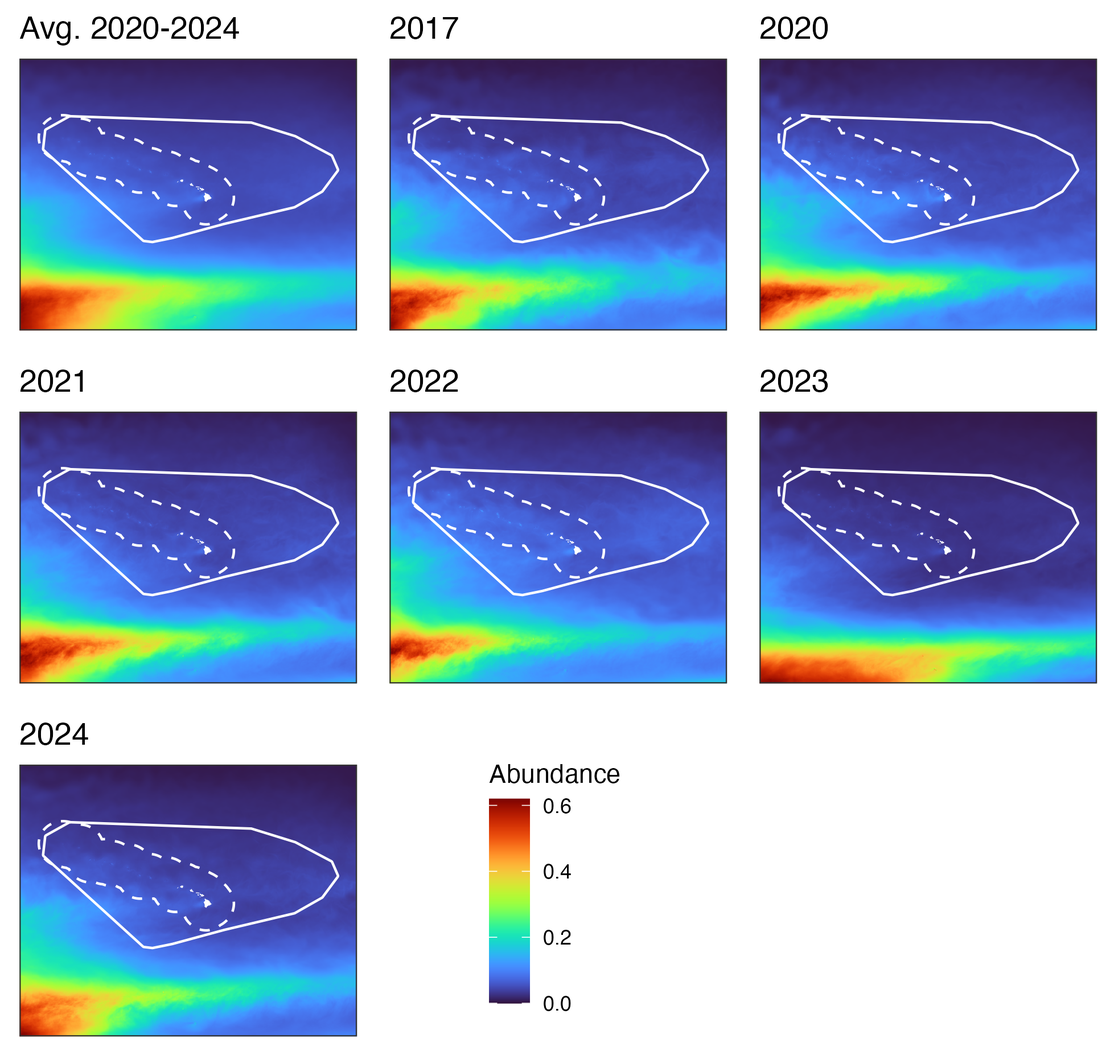
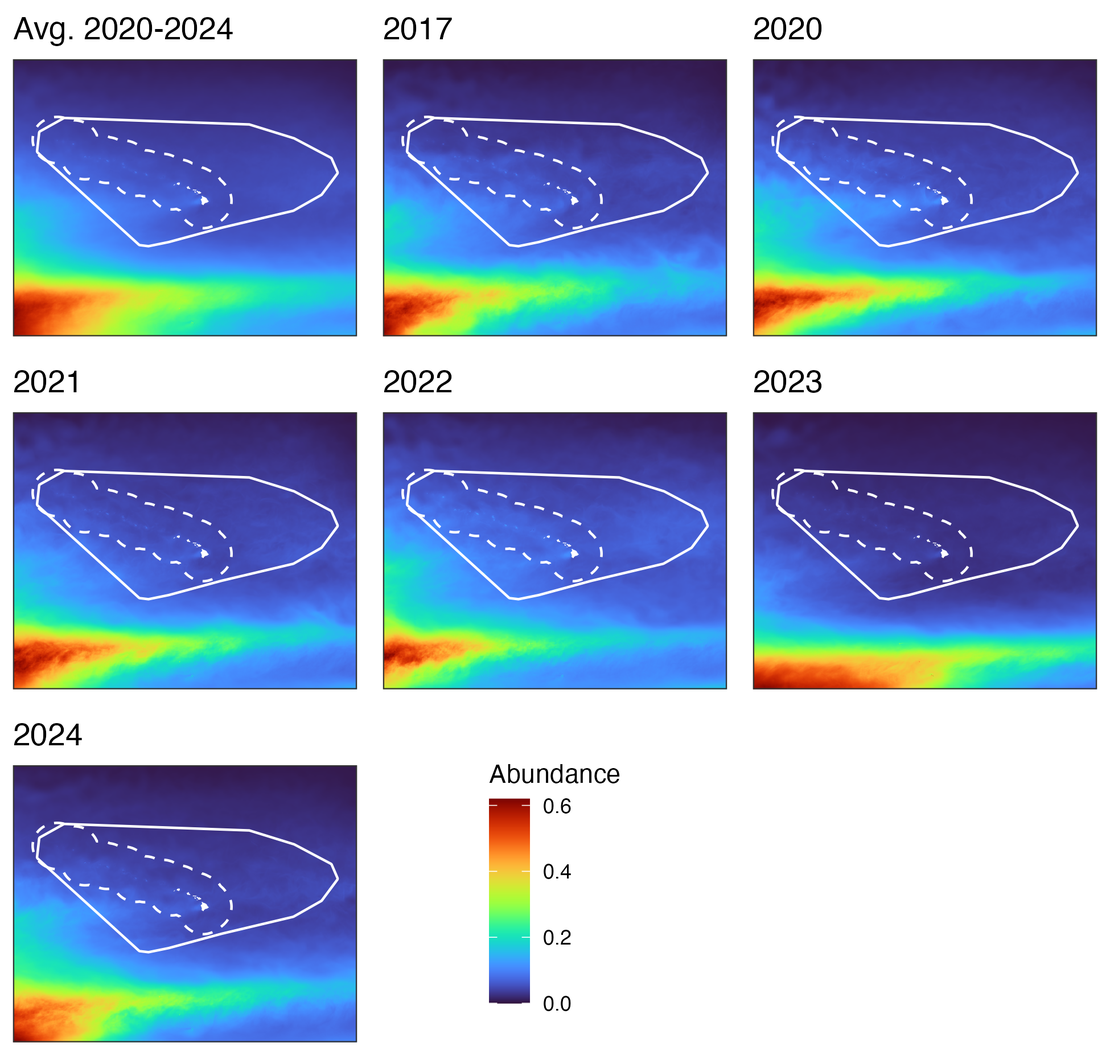
update vignette

diff --git a/docs/content/s4_fit_models/index.html b/docs/content/s4_fit_models/index.html
@@ -383,8 +383,8 @@ pre > code.sourceCode > span > a:first-child::before { text-decoration: underlin
 <span id="cb5-7"><a href="#cb5-7" aria-hidden="true" tabindex="-1"></a></span>
 <span id="cb5-8"><a href="#cb5-8" aria-hidden="true" tabindex="-1"></a>form_hab <span class="ot">&lt;-</span> <span class="fu">apply</span>(hab_inc, <span class="dv">1</span>, <span class="cf">function</span>(row) {</span>
 <span id="cb5-9"><a href="#cb5-9" aria-hidden="true" tabindex="-1"></a>  terms <span class="ot">&lt;-</span> <span class="fu">mapply</span>(<span class="cf">function</span>(choice, var) {</span>
-<span id="cb5-10"><a href="#cb5-10" aria-hidden="true" tabindex="-1"></a>    <span class="cf">if</span> (choice <span class="sc">==</span> <span class="dv">1</span>) <span class="fu">return</span>(<span class="fu">paste0</span>(<span class="st">"s("</span>,var,<span class="st">",bs=spline2use,k=5)"</span>))</span>
-<span id="cb5-11"><a href="#cb5-11" aria-hidden="true" tabindex="-1"></a>    <span class="cf">if</span> (choice <span class="sc">==</span> <span class="dv">2</span>) <span class="fu">return</span>(<span class="fu">paste0</span>(<span class="st">"te("</span>, var, <span class="st">",Latitude,bs=spline2use,k=5)"</span>))</span>
+<span id="cb5-10"><a href="#cb5-10" aria-hidden="true" tabindex="-1"></a>    <span class="cf">if</span> (choice <span class="sc">==</span> <span class="dv">1</span>) <span class="fu">return</span>(<span class="fu">paste0</span>(<span class="st">"s("</span>,var,<span class="st">",bs='ts')"</span>))</span>
+<span id="cb5-11"><a href="#cb5-11" aria-hidden="true" tabindex="-1"></a>    <span class="cf">if</span> (choice <span class="sc">==</span> <span class="dv">2</span>) <span class="fu">return</span>(<span class="fu">paste0</span>(<span class="st">"te("</span>, var, <span class="st">",Latitude,bs='ts')"</span>))</span>
 <span id="cb5-12"><a href="#cb5-12" aria-hidden="true" tabindex="-1"></a>    <span class="fu">return</span>(<span class="cn">NULL</span>)</span>
 <span id="cb5-13"><a href="#cb5-13" aria-hidden="true" tabindex="-1"></a>  }, row, hab_var)</span>
 <span id="cb5-14"><a href="#cb5-14" aria-hidden="true" tabindex="-1"></a>  terms <span class="ot">&lt;-</span> <span class="fu">unlist</span>(terms)</span>
@@ -394,7 +394,7 @@ pre > code.sourceCode > span > a:first-child::before { text-decoration: underlin
 <span id="cb5-18"><a href="#cb5-18" aria-hidden="true" tabindex="-1"></a></span>
 <span id="cb5-19"><a href="#cb5-19" aria-hidden="true" tabindex="-1"></a>form_hab_sd <span class="ot">&lt;-</span> <span class="fu">apply</span>(hab_sd_inc, <span class="dv">1</span>, <span class="cf">function</span>(row) {</span>
 <span id="cb5-20"><a href="#cb5-20" aria-hidden="true" tabindex="-1"></a>  terms <span class="ot">&lt;-</span> <span class="fu">mapply</span>(<span class="cf">function</span>(choice, var) {</span>
-<span id="cb5-21"><a href="#cb5-21" aria-hidden="true" tabindex="-1"></a>    <span class="cf">if</span> (choice <span class="sc">==</span> <span class="dv">1</span>) <span class="fu">return</span>(<span class="fu">paste0</span>(<span class="st">"s("</span>,var,<span class="st">",bs=spline2use,k=5)"</span>))</span>
+<span id="cb5-21"><a href="#cb5-21" aria-hidden="true" tabindex="-1"></a>    <span class="cf">if</span> (choice <span class="sc">==</span> <span class="dv">1</span>) <span class="fu">return</span>(<span class="fu">paste0</span>(<span class="st">"s("</span>,var,<span class="st">",bs='ts')"</span>))</span>
 <span id="cb5-22"><a href="#cb5-22" aria-hidden="true" tabindex="-1"></a>    <span class="fu">return</span>(<span class="cn">NULL</span>)</span>
 <span id="cb5-23"><a href="#cb5-23" aria-hidden="true" tabindex="-1"></a>  }, row, hab_var_sd)</span>
 <span id="cb5-24"><a href="#cb5-24" aria-hidden="true" tabindex="-1"></a>  terms <span class="ot">&lt;-</span> <span class="fu">unlist</span>(terms)</span>
@@ -421,37 +421,36 @@ pre > code.sourceCode > span > a:first-child::before { text-decoration: underlin
 <div class="code-copy-outer-scaffold"><div class="sourceCode cell-code" id="cb6"><pre class="sourceCode r code-with-copy"><code class="sourceCode r"><span id="cb6-1"><a href="#cb6-1" aria-hidden="true" tabindex="-1"></a><span class="co">#' Select spline type</span></span>
 <span id="cb6-2"><a href="#cb6-2" aria-hidden="true" tabindex="-1"></a><span class="co">#' 'ts'= thin plate splines ("shrinkage approach" applies additional smoothing penalty)</span></span>
 <span id="cb6-3"><a href="#cb6-3" aria-hidden="true" tabindex="-1"></a><span class="co">#' "tp" is default for s()</span></span>
-<span id="cb6-4"><a href="#cb6-4" aria-hidden="true" tabindex="-1"></a>spline2use <span class="ot">&lt;-</span> <span class="st">"ts"</span> </span>
-<span id="cb6-5"><a href="#cb6-5" aria-hidden="true" tabindex="-1"></a></span>
-<span id="cb6-6"><a href="#cb6-6" aria-hidden="true" tabindex="-1"></a>workers <span class="ot">&lt;-</span> <span class="dv">8</span></span>
-<span id="cb6-7"><a href="#cb6-7" aria-hidden="true" tabindex="-1"></a><span class="fu">plan</span>(<span class="st">"multisession"</span>, <span class="at">workers=</span>workers)</span>
-<span id="cb6-8"><a href="#cb6-8" aria-hidden="true" tabindex="-1"></a><span class="co"># forms &lt;- split(forms, cut(seq_along(forms), breaks = workers, labels = FALSE))</span></span>
-<span id="cb6-9"><a href="#cb6-9" aria-hidden="true" tabindex="-1"></a></span>
-<span id="cb6-10"><a href="#cb6-10" aria-hidden="true" tabindex="-1"></a><span class="fu">with_progress</span>({</span>
-<span id="cb6-11"><a href="#cb6-11" aria-hidden="true" tabindex="-1"></a>  pb <span class="ot">&lt;-</span> <span class="fu">progressor</span>(<span class="at">along =</span> forms_er) </span>
-<span id="cb6-12"><a href="#cb6-12" aria-hidden="true" tabindex="-1"></a>  ergam_list <span class="ot">&lt;-</span> <span class="fu">foreach</span>(</span>
-<span id="cb6-13"><a href="#cb6-13" aria-hidden="true" tabindex="-1"></a>    <span class="at">i =</span> <span class="fu">seq_along</span>(forms_er), <span class="at">.options.future =</span> <span class="fu">list</span>(<span class="at">seed =</span> <span class="cn">TRUE</span>), </span>
-<span id="cb6-14"><a href="#cb6-14" aria-hidden="true" tabindex="-1"></a>    <span class="at">.errorhandling =</span> <span class="st">"pass"</span>) <span class="sc">%dofuture%</span> {</span>
-<span id="cb6-15"><a href="#cb6-15" aria-hidden="true" tabindex="-1"></a>      spline2use <span class="ot">&lt;-</span> spline2use</span>
-<span id="cb6-16"><a href="#cb6-16" aria-hidden="true" tabindex="-1"></a>      gam_fit <span class="ot">&lt;-</span> <span class="fu">gam</span>(<span class="at">formula =</span> <span class="fu">as.formula</span>(forms_er[i]), <span class="at">offset =</span> <span class="fu">log</span>(effort),</span>
-<span id="cb6-17"><a href="#cb6-17" aria-hidden="true" tabindex="-1"></a>                     <span class="at">family =</span> <span class="fu">tw</span>(),</span>
-<span id="cb6-18"><a href="#cb6-18" aria-hidden="true" tabindex="-1"></a>                     <span class="at">method=</span><span class="st">"REML"</span>, </span>
-<span id="cb6-19"><a href="#cb6-19" aria-hidden="true" tabindex="-1"></a>                     <span class="at">data =</span> fkw_dsm_data, <span class="at">weights =</span> ProbPel)</span>
-<span id="cb6-20"><a href="#cb6-20" aria-hidden="true" tabindex="-1"></a>      <span class="fu">pb</span>()</span>
-<span id="cb6-21"><a href="#cb6-21" aria-hidden="true" tabindex="-1"></a>      <span class="fu">list</span>(<span class="at">summary =</span> <span class="fu">summary</span>(gam_fit), <span class="at">aic=</span>gam_fit<span class="sc">$</span>aic)</span>
-<span id="cb6-22"><a href="#cb6-22" aria-hidden="true" tabindex="-1"></a>    }</span>
-<span id="cb6-23"><a href="#cb6-23" aria-hidden="true" tabindex="-1"></a>})</span>
-<span id="cb6-24"><a href="#cb6-24" aria-hidden="true" tabindex="-1"></a><span class="fu">plan</span>(<span class="st">"sequential"</span>)</span>
-<span id="cb6-25"><a href="#cb6-25" aria-hidden="true" tabindex="-1"></a></span>
-<span id="cb6-26"><a href="#cb6-26" aria-hidden="true" tabindex="-1"></a>mod_df <span class="ot">&lt;-</span> <span class="fu">data.frame</span>(</span>
-<span id="cb6-27"><a href="#cb6-27" aria-hidden="true" tabindex="-1"></a>  <span class="at">idx =</span> <span class="dv">1</span><span class="sc">:</span><span class="fu">length</span>(ergam_list),</span>
-<span id="cb6-28"><a href="#cb6-28" aria-hidden="true" tabindex="-1"></a>  <span class="at">form =</span> forms_er, </span>
-<span id="cb6-29"><a href="#cb6-29" aria-hidden="true" tabindex="-1"></a>  <span class="at">aic =</span> <span class="fu">sapply</span>(ergam_list, \(x) x<span class="sc">$</span>aic), </span>
-<span id="cb6-30"><a href="#cb6-30" aria-hidden="true" tabindex="-1"></a>  <span class="at">dev_expl=</span><span class="fu">sapply</span>(ergam_list, \(x) x<span class="sc">$</span>summary<span class="sc">$</span>dev.expl<span class="sc">*</span><span class="dv">100</span>)</span>
-<span id="cb6-31"><a href="#cb6-31" aria-hidden="true" tabindex="-1"></a>) <span class="sc">%&gt;%</span> <span class="fu">mutate</span>(</span>
-<span id="cb6-32"><a href="#cb6-32" aria-hidden="true" tabindex="-1"></a>  <span class="at">waic =</span> <span class="fu">exp</span>(<span class="sc">-</span><span class="fl">0.5</span><span class="sc">*</span>(aic<span class="sc">-</span><span class="fu">min</span>(aic))),</span>
-<span id="cb6-33"><a href="#cb6-33" aria-hidden="true" tabindex="-1"></a>  <span class="at">waic =</span> waic<span class="sc">/</span><span class="fu">sum</span>(waic)</span>
-<span id="cb6-34"><a href="#cb6-34" aria-hidden="true" tabindex="-1"></a>) <span class="sc">%&gt;%</span> <span class="fu">arrange</span>(<span class="fu">desc</span>(waic))</span></code></pre></div><button title="Copy to Clipboard" class="code-copy-button"><i class="bi"></i></button></div>
+<span id="cb6-4"><a href="#cb6-4" aria-hidden="true" tabindex="-1"></a></span>
+<span id="cb6-5"><a href="#cb6-5" aria-hidden="true" tabindex="-1"></a>workers <span class="ot">&lt;-</span> <span class="dv">8</span></span>
+<span id="cb6-6"><a href="#cb6-6" aria-hidden="true" tabindex="-1"></a><span class="fu">plan</span>(<span class="st">"multisession"</span>, <span class="at">workers=</span>workers)</span>
+<span id="cb6-7"><a href="#cb6-7" aria-hidden="true" tabindex="-1"></a><span class="co"># forms &lt;- split(forms, cut(seq_along(forms), breaks = workers, labels = FALSE))</span></span>
+<span id="cb6-8"><a href="#cb6-8" aria-hidden="true" tabindex="-1"></a></span>
+<span id="cb6-9"><a href="#cb6-9" aria-hidden="true" tabindex="-1"></a><span class="fu">with_progress</span>({</span>
+<span id="cb6-10"><a href="#cb6-10" aria-hidden="true" tabindex="-1"></a>  pb <span class="ot">&lt;-</span> <span class="fu">progressor</span>(<span class="at">along =</span> forms_er) </span>
+<span id="cb6-11"><a href="#cb6-11" aria-hidden="true" tabindex="-1"></a>  ergam_list <span class="ot">&lt;-</span> <span class="fu">foreach</span>(</span>
+<span id="cb6-12"><a href="#cb6-12" aria-hidden="true" tabindex="-1"></a>    <span class="at">i =</span> <span class="fu">seq_along</span>(forms_er), <span class="at">.options.future =</span> <span class="fu">list</span>(<span class="at">seed =</span> <span class="cn">TRUE</span>), </span>
+<span id="cb6-13"><a href="#cb6-13" aria-hidden="true" tabindex="-1"></a>    <span class="at">.errorhandling =</span> <span class="st">"pass"</span>) <span class="sc">%dofuture%</span> {</span>
+<span id="cb6-14"><a href="#cb6-14" aria-hidden="true" tabindex="-1"></a>      spline2use <span class="ot">&lt;-</span> spline2use</span>
+<span id="cb6-15"><a href="#cb6-15" aria-hidden="true" tabindex="-1"></a>      gam_fit <span class="ot">&lt;-</span> <span class="fu">gam</span>(<span class="at">formula =</span> <span class="fu">as.formula</span>(forms_er[i]), <span class="at">offset =</span> <span class="fu">log</span>(effort),</span>
+<span id="cb6-16"><a href="#cb6-16" aria-hidden="true" tabindex="-1"></a>                     <span class="at">family =</span> <span class="fu">tw</span>(),</span>
+<span id="cb6-17"><a href="#cb6-17" aria-hidden="true" tabindex="-1"></a>                     <span class="at">method=</span><span class="st">"REML"</span>, </span>
+<span id="cb6-18"><a href="#cb6-18" aria-hidden="true" tabindex="-1"></a>                     <span class="at">data =</span> fkw_dsm_data, <span class="at">weights =</span> ProbPel)</span>
+<span id="cb6-19"><a href="#cb6-19" aria-hidden="true" tabindex="-1"></a>      <span class="fu">pb</span>()</span>
+<span id="cb6-20"><a href="#cb6-20" aria-hidden="true" tabindex="-1"></a>      <span class="fu">list</span>(<span class="at">summary =</span> <span class="fu">summary</span>(gam_fit), <span class="at">aic=</span>gam_fit<span class="sc">$</span>aic)</span>
+<span id="cb6-21"><a href="#cb6-21" aria-hidden="true" tabindex="-1"></a>    }</span>
+<span id="cb6-22"><a href="#cb6-22" aria-hidden="true" tabindex="-1"></a>})</span>
+<span id="cb6-23"><a href="#cb6-23" aria-hidden="true" tabindex="-1"></a><span class="fu">plan</span>(<span class="st">"sequential"</span>)</span>
+<span id="cb6-24"><a href="#cb6-24" aria-hidden="true" tabindex="-1"></a></span>
+<span id="cb6-25"><a href="#cb6-25" aria-hidden="true" tabindex="-1"></a>mod_df <span class="ot">&lt;-</span> <span class="fu">data.frame</span>(</span>
+<span id="cb6-26"><a href="#cb6-26" aria-hidden="true" tabindex="-1"></a>  <span class="at">idx =</span> <span class="dv">1</span><span class="sc">:</span><span class="fu">length</span>(ergam_list),</span>
+<span id="cb6-27"><a href="#cb6-27" aria-hidden="true" tabindex="-1"></a>  <span class="at">form =</span> forms_er, </span>
+<span id="cb6-28"><a href="#cb6-28" aria-hidden="true" tabindex="-1"></a>  <span class="at">aic =</span> <span class="fu">sapply</span>(ergam_list, \(x) x<span class="sc">$</span>aic), </span>
+<span id="cb6-29"><a href="#cb6-29" aria-hidden="true" tabindex="-1"></a>  <span class="at">dev_expl=</span><span class="fu">sapply</span>(ergam_list, \(x) x<span class="sc">$</span>summary<span class="sc">$</span>dev.expl<span class="sc">*</span><span class="dv">100</span>)</span>
+<span id="cb6-30"><a href="#cb6-30" aria-hidden="true" tabindex="-1"></a>) <span class="sc">%&gt;%</span> <span class="fu">mutate</span>(</span>
+<span id="cb6-31"><a href="#cb6-31" aria-hidden="true" tabindex="-1"></a>  <span class="at">waic =</span> <span class="fu">exp</span>(<span class="sc">-</span><span class="fl">0.5</span><span class="sc">*</span>(aic<span class="sc">-</span><span class="fu">min</span>(aic))),</span>
+<span id="cb6-32"><a href="#cb6-32" aria-hidden="true" tabindex="-1"></a>  <span class="at">waic =</span> waic<span class="sc">/</span><span class="fu">sum</span>(waic)</span>
+<span id="cb6-33"><a href="#cb6-33" aria-hidden="true" tabindex="-1"></a>) <span class="sc">%&gt;%</span> <span class="fu">arrange</span>(<span class="fu">desc</span>(waic))</span></code></pre></div><button title="Copy to Clipboard" class="code-copy-button"><i class="bi"></i></button></div>
 </div>
 </section>
 <section id="group-size-model" class="level3">
@@ -461,7 +460,7 @@ pre > code.sourceCode > span > a:first-child::before { text-decoration: underlin
 <div class="code-copy-outer-scaffold"><div class="sourceCode cell-code" id="cb7"><pre class="sourceCode r code-with-copy"><code class="sourceCode r"><span id="cb7-1"><a href="#cb7-1" aria-hidden="true" tabindex="-1"></a>hab_inc_gs <span class="ot">&lt;-</span> <span class="fu">expand.grid</span>(<span class="fu">rep</span>(<span class="fu">list</span>(<span class="dv">0</span><span class="sc">:</span><span class="dv">1</span>), <span class="fu">length</span>(hab_var)))</span>
 <span id="cb7-2"><a href="#cb7-2" aria-hidden="true" tabindex="-1"></a>forms_gs <span class="ot">&lt;-</span> <span class="fu">apply</span>(hab_inc_gs, <span class="dv">1</span>, <span class="cf">function</span>(row) {</span>
 <span id="cb7-3"><a href="#cb7-3" aria-hidden="true" tabindex="-1"></a>  terms <span class="ot">&lt;-</span> <span class="fu">mapply</span>(<span class="cf">function</span>(choice, var) {</span>
-<span id="cb7-4"><a href="#cb7-4" aria-hidden="true" tabindex="-1"></a>    <span class="cf">if</span> (choice <span class="sc">==</span> <span class="dv">1</span>) <span class="fu">return</span>(<span class="fu">paste0</span>(<span class="st">"s("</span>,var,<span class="st">",bs=spline2use,k=5)"</span>))</span>
+<span id="cb7-4"><a href="#cb7-4" aria-hidden="true" tabindex="-1"></a>    <span class="cf">if</span> (choice <span class="sc">==</span> <span class="dv">1</span>) <span class="fu">return</span>(<span class="fu">paste0</span>(<span class="st">"s("</span>,var,<span class="st">",bs='ts')"</span>))</span>
 <span id="cb7-5"><a href="#cb7-5" aria-hidden="true" tabindex="-1"></a>    <span class="fu">return</span>(<span class="cn">NULL</span>)</span>
 <span id="cb7-6"><a href="#cb7-6" aria-hidden="true" tabindex="-1"></a>  }, row, hab_var)</span>
 <span id="cb7-7"><a href="#cb7-7" aria-hidden="true" tabindex="-1"></a>  terms <span class="ot">&lt;-</span> <span class="fu">unlist</span>(terms)</span>
@@ -505,38 +504,38 @@ pre > code.sourceCode > span > a:first-child::before { text-decoration: underlin
 <pre><code># A tibble: 767 × 6
     ...1   idx form                                         aic dev_expl    waic
    &lt;dbl&gt; &lt;dbl&gt; &lt;chr&gt;                                      &lt;dbl&gt;    &lt;dbl&gt;   &lt;dbl&gt;
- 1     1    90 nSI_033 ~ te(sst,Latitude,bs=spline2use,k…  398.     5.93 0.00638
- 2     2    91 nSI_033 ~ te(sst,Latitude,bs=spline2use,k…  398.     5.93 0.00638
- 3     3   411 nSI_033 ~ te(sst,Latitude,bs=spline2use,k…  398.     5.93 0.00638
- 4     4    94 nSI_033 ~ te(sst,Latitude,bs=spline2use,k…  398.     5.93 0.00638
- 5     5   218 nSI_033 ~ te(sst,Latitude,bs=spline2use,k…  398.     5.93 0.00638
- 6     6   219 nSI_033 ~ te(sst,Latitude,bs=spline2use,k…  398.     5.93 0.00638
- 7     7   414 nSI_033 ~ te(sst,Latitude,bs=spline2use,k…  398.     5.93 0.00638
- 8     8   410 nSI_033 ~ te(sst,Latitude,bs=spline2use,k…  398.     5.93 0.00638
- 9     9    95 nSI_033 ~ te(sst,Latitude,bs=spline2use,k…  398.     5.93 0.00638
-10    10   538 nSI_033 ~ te(sst,Latitude,bs=spline2use,k…  398.     5.93 0.00638
+ 1     1    90 nSI_033 ~ te(sst,Latitude,bs='ts') + s(ss…  398.     5.93 0.00639
+ 2     2   218 nSI_033 ~ te(sst,Latitude,bs='ts') + s(ss…  398.     5.93 0.00639
+ 3     3    95 nSI_033 ~ te(sst,Latitude,bs='ts') + s(ss…  398.     5.93 0.00639
+ 4     4    91 nSI_033 ~ te(sst,Latitude,bs='ts') + s(ss…  398.     5.93 0.00639
+ 5     5   538 nSI_033 ~ te(sst,Latitude,bs='ts') + s(ss…  398.     5.93 0.00639
+ 6     6   410 nSI_033 ~ te(sst,Latitude,bs='ts') + s(ss…  398.     5.93 0.00639
+ 7     7    94 nSI_033 ~ te(sst,Latitude,bs='ts') + s(ss…  398.     5.93 0.00639
+ 8     8   223 nSI_033 ~ te(sst,Latitude,bs='ts') + s(ss…  398.     5.93 0.00639
+ 9     9   411 nSI_033 ~ te(sst,Latitude,bs='ts') + s(ss…  398.     5.93 0.00639
+10    10   219 nSI_033 ~ te(sst,Latitude,bs='ts') + s(ss…  398.     5.93 0.00639
 # ℹ 757 more rows</code></pre>
 </div>
 <div class="cell-output cell-output-stdout">
-<pre><code># A tibble: 16 × 5
-     idx form                                              aic  dev_expl    waic
-   &lt;dbl&gt; &lt;chr&gt;                                           &lt;dbl&gt;     &lt;dbl&gt;   &lt;dbl&gt;
- 1     7 log(ANI_033) ~ s(ssh,bs=spline2use,k=5) + s(ml…  85.7  2.88e+ 1 2.38e-1
- 2     8 log(ANI_033) ~ s(sst,bs=spline2use,k=5) + s(ss…  85.7  2.88e+ 1 2.38e-1
- 3    16 log(ANI_033) ~ s(sst,bs=spline2use,k=5) + s(ss…  85.7  2.88e+ 1 2.38e-1
- 4    15 log(ANI_033) ~ s(ssh,bs=spline2use,k=5) + s(ml…  85.7  2.88e+ 1 2.38e-1
- 5    13 log(ANI_033) ~ s(mld,bs=spline2use,k=5) + s(sa…  92.8  1.24e+ 1 6.81e-3
- 6    14 log(ANI_033) ~ s(sst,bs=spline2use,k=5) + s(ml…  92.8  1.24e+ 1 6.81e-3
- 7     5 log(ANI_033) ~ s(mld,bs=spline2use,k=5)          92.8  1.23e+ 1 6.81e-3
- 8     6 log(ANI_033) ~ s(sst,bs=spline2use,k=5) + s(ml…  92.8  1.23e+ 1 6.81e-3
- 9     3 log(ANI_033) ~ s(ssh,bs=spline2use,k=5)          93.6  1.07e+ 1 4.63e-3
-10    11 log(ANI_033) ~ s(ssh,bs=spline2use,k=5) + s(sa…  93.6  1.07e+ 1 4.63e-3
-11     4 log(ANI_033) ~ s(sst,bs=spline2use,k=5) + s(ss…  93.6  1.07e+ 1 4.63e-3
-12    12 log(ANI_033) ~ s(sst,bs=spline2use,k=5) + s(ss…  93.6  1.07e+ 1 4.63e-3
-13     1 log(ANI_033) ~ 1                                 96.9 -3.62e-14 8.85e-4
-14     9 log(ANI_033) ~ s(salinity,bs=spline2use,k=5)     96.9  1.73e- 3 8.85e-4
-15    10 log(ANI_033) ~ s(sst,bs=spline2use,k=5) + s(sa…  96.9  4.62e- 4 8.85e-4
-16     2 log(ANI_033) ~ s(sst,bs=spline2use,k=5)          96.9  1.45e- 4 8.85e-4</code></pre>
+<pre><code># A tibble: 16 × 6
+    ...1   idx form                                        aic  dev_expl    waic
+   &lt;dbl&gt; &lt;dbl&gt; &lt;chr&gt;                                     &lt;dbl&gt;     &lt;dbl&gt;   &lt;dbl&gt;
+ 1     1     7 log(ANI_033) ~ s(ssh,bs='ts') + s(mld,bs…  85.7  2.87e+ 1 2.38e-1
+ 2     2    16 log(ANI_033) ~ s(sst,bs='ts') + s(ssh,bs…  85.7  2.87e+ 1 2.38e-1
+ 3     3     8 log(ANI_033) ~ s(sst,bs='ts') + s(ssh,bs…  85.7  2.87e+ 1 2.38e-1
+ 4     4    15 log(ANI_033) ~ s(ssh,bs='ts') + s(mld,bs…  85.7  2.87e+ 1 2.38e-1
+ 5     5    13 log(ANI_033) ~ s(mld,bs='ts') + s(salini…  92.8  1.24e+ 1 6.84e-3
+ 6     6    14 log(ANI_033) ~ s(sst,bs='ts') + s(mld,bs…  92.8  1.24e+ 1 6.84e-3
+ 7     7     5 log(ANI_033) ~ s(mld,bs='ts')              92.8  1.23e+ 1 6.83e-3
+ 8     8     6 log(ANI_033) ~ s(sst,bs='ts') + s(mld,bs…  92.8  1.23e+ 1 6.83e-3
+ 9     9     3 log(ANI_033) ~ s(ssh,bs='ts')              93.6  1.07e+ 1 4.63e-3
+10    10     4 log(ANI_033) ~ s(sst,bs='ts') + s(ssh,bs…  93.6  1.07e+ 1 4.63e-3
+11    11    12 log(ANI_033) ~ s(sst,bs='ts') + s(ssh,bs…  93.6  1.07e+ 1 4.63e-3
+12    12    11 log(ANI_033) ~ s(ssh,bs='ts') + s(salini…  93.6  1.07e+ 1 4.63e-3
+13    13     1 log(ANI_033) ~ 1                           96.9 -1.21e-14 8.88e-4
+14    14     9 log(ANI_033) ~ s(salinity,bs='ts')         96.9  1.56e- 3 8.88e-4
+15    15    10 log(ANI_033) ~ s(sst,bs='ts') + s(salini…  96.9  9.45e- 4 8.88e-4
+16    16     2 log(ANI_033) ~ s(sst,bs='ts')              96.9  2.54e- 4 8.88e-4</code></pre>
 </div>
 </div>
 <div class="cell">
@@ -578,12 +577,12 @@ pre > code.sourceCode > span > a:first-child::before { text-decoration: underlin
 <span id="cb13-6"><a href="#cb13-6" aria-hidden="true" tabindex="-1"></a><span class="co">#               method="REML", </span></span>
 <span id="cb13-7"><a href="#cb13-7" aria-hidden="true" tabindex="-1"></a><span class="co">#               data = fkw_dsm_data, weights = ProbPel)</span></span>
 <span id="cb13-8"><a href="#cb13-8" aria-hidden="true" tabindex="-1"></a></span>
-<span id="cb13-9"><a href="#cb13-9" aria-hidden="true" tabindex="-1"></a>er_fit <span class="ot">&lt;-</span> <span class="fu">gam</span>(<span class="at">formula =</span> nSI_033 <span class="sc">~</span> <span class="fu">te</span>(sst, Latitude, <span class="at">bs =</span> spline2use, <span class="at">k =</span> <span class="dv">5</span>),</span>
+<span id="cb13-9"><a href="#cb13-9" aria-hidden="true" tabindex="-1"></a>er_fit <span class="ot">&lt;-</span> <span class="fu">gam</span>(<span class="at">formula =</span> nSI_033 <span class="sc">~</span> <span class="fu">te</span>(sst, Latitude, <span class="at">bs =</span> <span class="st">'ts'</span>),</span>
 <span id="cb13-10"><a href="#cb13-10" aria-hidden="true" tabindex="-1"></a>              <span class="at">offset =</span> <span class="fu">log</span>(effort),</span>
 <span id="cb13-11"><a href="#cb13-11" aria-hidden="true" tabindex="-1"></a>              <span class="at">family =</span> <span class="fu">tw</span>(),</span>
 <span id="cb13-12"><a href="#cb13-12" aria-hidden="true" tabindex="-1"></a>              <span class="at">method=</span><span class="st">"REML"</span>, </span>
 <span id="cb13-13"><a href="#cb13-13" aria-hidden="true" tabindex="-1"></a>              <span class="at">data =</span> fkw_dsm_data, <span class="at">weights =</span> ProbPel)</span>
-<span id="cb13-14"><a href="#cb13-14" aria-hidden="true" tabindex="-1"></a>gs_fit <span class="ot">&lt;-</span> <span class="fu">gam</span>(<span class="at">formula =</span> <span class="fu">log</span>(ANI_033) <span class="sc">~</span> <span class="fu">s</span>(ssh, <span class="at">bs =</span> spline2use, <span class="at">k =</span> <span class="dv">5</span>) <span class="sc">+</span> <span class="fu">s</span>(mld, <span class="at">bs =</span> spline2use, <span class="at">k =</span> <span class="dv">5</span>),</span>
+<span id="cb13-14"><a href="#cb13-14" aria-hidden="true" tabindex="-1"></a>gs_fit <span class="ot">&lt;-</span> <span class="fu">gam</span>(<span class="at">formula =</span> <span class="fu">log</span>(ANI_033) <span class="sc">~</span> <span class="fu">s</span>(ssh, <span class="at">bs =</span> <span class="st">'ts'</span>) <span class="sc">+</span> <span class="fu">s</span>(mld, <span class="at">bs =</span> <span class="st">'ts'</span>),</span>
 <span id="cb13-15"><a href="#cb13-15" aria-hidden="true" tabindex="-1"></a>              <span class="at">method=</span><span class="st">"REML"</span>, </span>
 <span id="cb13-16"><a href="#cb13-16" aria-hidden="true" tabindex="-1"></a>              <span class="at">data =</span> fkw_gs, <span class="at">weights =</span> ProbPel)</span></code></pre></div><button title="Copy to Clipboard" class="code-copy-button"><i class="bi"></i></button></div>
 </div>
@@ -690,7 +689,7 @@ s(mld) 4.000 0.927    1.25    0.93</code></pre>
 <span id="cb19-6"><a href="#cb19-6" aria-hidden="true" tabindex="-1"></a><span class="do">## AUC</span></span>
 <span id="cb19-7"><a href="#cb19-7" aria-hidden="true" tabindex="-1"></a>auc <span class="ot">&lt;-</span> <span class="fu">WeightedAUC</span>(rocr)</span>
 <span id="cb19-8"><a href="#cb19-8" aria-hidden="true" tabindex="-1"></a>auc</span>
-<span id="cb19-9"><a href="#cb19-9" aria-hidden="true" tabindex="-1"></a><span class="co"># 0.7119164</span></span>
+<span id="cb19-9"><a href="#cb19-9" aria-hidden="true" tabindex="-1"></a><span class="co"># 0.7121108</span></span>
 <span id="cb19-10"><a href="#cb19-10" aria-hidden="true" tabindex="-1"></a></span>
 <span id="cb19-11"><a href="#cb19-11" aria-hidden="true" tabindex="-1"></a><span class="do">## Compute TSS</span></span>
 <span id="cb19-12"><a href="#cb19-12" aria-hidden="true" tabindex="-1"></a>d <span class="ot">&lt;-</span> <span class="fu">sqrt</span>((rocr<span class="sc">$</span>TPR<span class="dv">-1</span>)<span class="sc">^</span><span class="dv">2</span> <span class="sc">+</span> (rocr<span class="sc">$</span>FPR<span class="dv">-0</span>)<span class="sc">^</span><span class="dv">2</span>)</span>
@@ -699,7 +698,7 @@ s(mld) 4.000 0.927    1.25    0.93</code></pre>
 <span id="cb19-15"><a href="#cb19-15" aria-hidden="true" tabindex="-1"></a></span>
 <span id="cb19-16"><a href="#cb19-16" aria-hidden="true" tabindex="-1"></a>TSS <span class="ot">&lt;-</span> opt_rocr<span class="sc">$</span>TPR <span class="sc">+</span> (<span class="dv">1</span><span class="sc">-</span>opt_rocr<span class="sc">$</span>FPR) <span class="sc">-</span><span class="dv">1</span> </span>
 <span id="cb19-17"><a href="#cb19-17" aria-hidden="true" tabindex="-1"></a>TSS</span>
-<span id="cb19-18"><a href="#cb19-18" aria-hidden="true" tabindex="-1"></a><span class="co"># 0.3626605</span></span></code></pre></div><button title="Copy to Clipboard" class="code-copy-button"><i class="bi"></i></button></div>
+<span id="cb19-18"><a href="#cb19-18" aria-hidden="true" tabindex="-1"></a><span class="co"># 0.3627301</span></span></code></pre></div><button title="Copy to Clipboard" class="code-copy-button"><i class="bi"></i></button></div>
 </div>
 </section>
 <section id="rose-bootstrap-sample-auc-and-tss" class="level3">
@@ -729,12 +728,12 @@ s(mld) 4.000 0.927    1.25    0.93</code></pre>
 <span id="cb20-21"><a href="#cb20-21" aria-hidden="true" tabindex="-1"></a>  <span class="fu">cat</span>(i,<span class="st">" "</span>)</span>
 <span id="cb20-22"><a href="#cb20-22" aria-hidden="true" tabindex="-1"></a>}</span>
 <span id="cb20-23"><a href="#cb20-23" aria-hidden="true" tabindex="-1"></a><span class="fu">mean</span>(auc_stor)</span>
-<span id="cb20-24"><a href="#cb20-24" aria-hidden="true" tabindex="-1"></a><span class="co"># 0.7626317</span></span>
+<span id="cb20-24"><a href="#cb20-24" aria-hidden="true" tabindex="-1"></a><span class="co"># 0.7626315</span></span>
 <span id="cb20-25"><a href="#cb20-25" aria-hidden="true" tabindex="-1"></a><span class="fu">range</span>(auc_stor)</span>
-<span id="cb20-26"><a href="#cb20-26" aria-hidden="true" tabindex="-1"></a><span class="co"># 0.7581797 0.7666302</span></span>
+<span id="cb20-26"><a href="#cb20-26" aria-hidden="true" tabindex="-1"></a><span class="co"># 0.7581795 0.7666299</span></span>
 <span id="cb20-27"><a href="#cb20-27" aria-hidden="true" tabindex="-1"></a></span>
 <span id="cb20-28"><a href="#cb20-28" aria-hidden="true" tabindex="-1"></a><span class="fu">mean</span>(tss_stor)</span>
-<span id="cb20-29"><a href="#cb20-29" aria-hidden="true" tabindex="-1"></a><span class="co"># 0.4331774</span></span>
+<span id="cb20-29"><a href="#cb20-29" aria-hidden="true" tabindex="-1"></a><span class="co"># 0.4331769</span></span>
 <span id="cb20-30"><a href="#cb20-30" aria-hidden="true" tabindex="-1"></a><span class="fu">range</span>(tss_stor)</span>
 <span id="cb20-31"><a href="#cb20-31" aria-hidden="true" tabindex="-1"></a><span class="co"># 0.4144445 0.4537293</span></span></code></pre></div><button title="Copy to Clipboard" class="code-copy-button"><i class="bi"></i></button></div>
 </div>

diff --git a/docs/content/s8_prop_var/index.html b/docs/content/s8_prop_var/index.html
@@ -509,13 +509,13 @@ pre > code.sourceCode > span > a:first-child::before { text-decoration: underlin
 <pre><code># A tibble: 7 × 5
   year          N_cenpac_est CI_low_cenpac CI_hi_cenpac N_cenpac_cv
   &lt;chr&gt;                &lt;dbl&gt;         &lt;dbl&gt;        &lt;dbl&gt;       &lt;dbl&gt;
-1 avg 2020-2024        33227         9826.       83426.       0.589
-2 2017                 32481        10952.       75564.       0.524
-3 2020                 30971        10350.       72438.       0.529
-4 2021                 29092        10146.       66317.       0.508
-5 2022                 24825         8851.       55835.       0.497
-6 2023                 45604        15329.      106296.       0.526
-7 2024                 35645        11914.       83362.       0.528</code></pre>
+1 avg 2020-2024        33216          9917        82950        0.58
+2 2017                 32471         11111        74879        0.52
+3 2020                 30956         10494        71788        0.52
+4 2021                 29081         10294        65697        0.5 
+5 2022                 24811          9006        55192        0.49
+6 2023                 45598         15424       105881        0.52
+7 2024                 35634         12044        82784        0.52</code></pre>
 </div>
 </div>
 </section>
@@ -526,13 +526,13 @@ pre > code.sourceCode > span > a:first-child::before { text-decoration: underlin
 <pre><code># A tibble: 7 × 5
   year          N_fkw_mgmt_est CI_low_assess CI_hi_assess N_assess_cv
   &lt;chr&gt;                  &lt;dbl&gt;         &lt;dbl&gt;        &lt;dbl&gt;       &lt;dbl&gt;
-1 avg 2020-2024           4526         1548.       10440.       0.517
-2 2017                    4648         1461.       11268.       0.559
-3 2020                    4934         1685.       11392.       0.518
-4 2021                    4124         1474.        9260.       0.496
-5 2022                    4466         1487.       10469.       0.530
-6 2023                    4262         1481.        9737.       0.510
-7 2024                    4843         1721.       10915.       0.499</code></pre>
+1 avg 2020-2024           4526          1547        10444        0.52
+2 2017                    4647          1453        11300        0.56
+3 2020                    4933          1676        11423        0.52
+4 2021                    4124          1486         9216        0.49
+5 2022                    4467          1485        10482        0.53
+6 2023                    4262          1483         9731        0.51
+7 2024                    4843          1715        10939        0.5 </code></pre>
 </div>
 </div>
 </section>
@@ -543,13 +543,13 @@ pre > code.sourceCode > span > a:first-child::before { text-decoration: underlin
 <pre><code># A tibble: 7 × 5
   year          N_eez_est CI_low_eez CI_hi_eez N_eez_cv
   &lt;chr&gt;             &lt;dbl&gt;      &lt;dbl&gt;     &lt;dbl&gt;    &lt;dbl&gt;
-1 avg 2020-2024      1745       531.     4310.    0.574
-2 2017               1828       498.     4804.    0.630
-3 2020               1950       589.     4839.    0.579
-4 2021               1545       508.     3649.    0.537
-5 2022               1744       489.     4509.    0.615
-6 2023               1639       525.     3930.    0.549
-7 2024               1848       609.     4357.    0.535</code></pre>
+1 avg 2020-2024      1745        526      4334     0.58
+2 2017               1828        489      4852     0.64
+3 2020               1950        580      4882     0.59
+4 2021               1545        510      3642     0.54
+5 2022               1744        483      4541     0.62
+6 2023               1639        523      3940     0.55
+7 2024               1848        602      4390     0.54</code></pre>
 </div>
 </div>
 </section>

diff --git a/docs/content/s7_predict_abund/index.html b/docs/content/s7_predict_abund/index.html
@@ -643,7 +643,7 @@ pre > code.sourceCode > span > a:first-child::before { text-decoration: underlin
 <pre><code># A tibble: 1 × 7
    year N_cenpac_est N_cenpac_sd N_eez_est N_eez_sd N_fkw_mgmt_est N_fkw_mgmt_sd
   &lt;dbl&gt;        &lt;dbl&gt;       &lt;dbl&gt;     &lt;dbl&gt;    &lt;dbl&gt;          &lt;dbl&gt;         &lt;dbl&gt;
-1  2017        29179        5835      2268      819           5335          1780</code></pre>
+1  2017        29171        5834      2268      819           5335          1779</code></pre>
 </div>
 </div>
 
